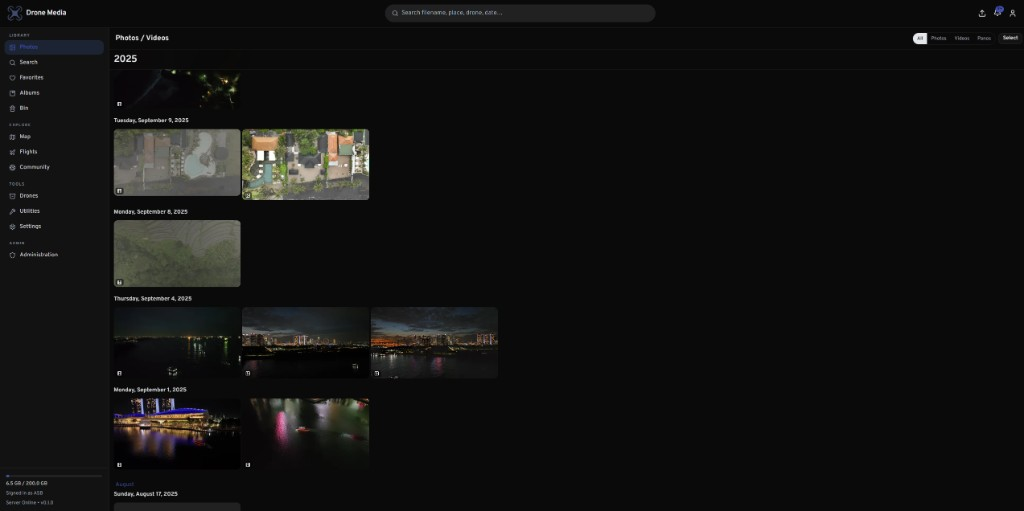
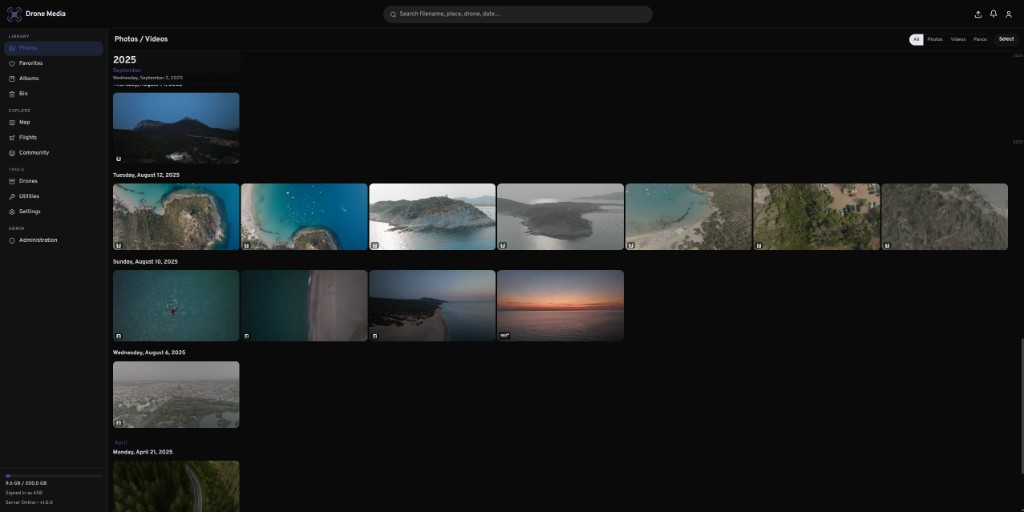
docs: refresh README screenshots for upload, pano, map, and flights
Update gallery images and feature blurbs for the upload dock, panoramas, map badges, and flight page.

diff --git a/README.md b/README.md
@@ -23,7 +23,7 @@ Drone Media is a multi-user web app for keeping aerial media organized at home. 
 
 ### Timeline
 
-Date-grouped photos and videos in the main library.
+Date-grouped library with type filters and media badges on each tile.
 
 ![Library timeline](docs/screenshots/timeline.png)
 
@@ -33,17 +33,35 @@ Watch clips with metadata, linked SRT/LRF, and the telemetry path on a map.
 
 ![Asset playback](docs/screenshots/playback.png)
 
+### Panorama
+
+Interactive 360° panoramas with a heading cue and look-direction cone on the location map.
+
+![Panorama viewer](docs/screenshots/panorama.png)
+
 ### Map
 
-Geotagged media on a world map, with clusters where shots overlap.
+Geotagged media with clusters and corner badges for photo, video, and panorama markers.
 
 ![Map view](docs/screenshots/map.png)
+
+### Flight
+
+Multi-clip flights with a bottom media strip, live path map, and altitude telemetry.
+
+![Flight detail](docs/screenshots/flight.png)
 
 ### Upload
 
 Import from an SD card or drone folder — linked basenames and sequences are grouped before you copy into the library.
 
 ![Upload and SD import](docs/screenshots/upload.png)
+
+### Upload progress
+
+A compact upload dock keeps transfers visible while you browse the rest of the library.
+
+![Upload dock](docs/screenshots/upload-dock.png)
 
 ### Processing
 
@@ -54,7 +72,10 @@ Live job status after import: checksum, thumbnails, metadata, flight path, and t
 ## At a glance
 
 - Chunked uploads with basename grouping (video + SRT + LRF, hyperlapse / panorama folders)
+- Background upload dock so you can keep browsing while transfers finish
 - Timeline, map, flights, albums, drones, favorites, and bin
+- Stitched panoramas with 360° viewing and compass heading when EXIF/DJI yaw is present
+- Map markers with media-type badges; asset mini-map shows a look-direction cone for photos/panos
 - HLS adaptive playback from cache; **Source** in the player only after a streaming preview exists (download always available)
 - Photo **Web** previews on cache; full originals for download
 - Community profiles and a shared public map
@@ -73,9 +94,11 @@ AGPL-3.0 — see [LICENSE](./LICENSE).
 - **Library** — timeline, map, flights, albums, drones, favorites, bin
 - **Playback** — HLS adaptive streaming (1080p / 1440p / Auto) from regenerable cache; **Source** plays the original from media storage
 - **Photos** — in-app **Web** preview from cache; **Source** / download use full originals
+- **Panoramas** — DJI-style stitch, 360° viewer, heading tape, and map look cone when yaw tags exist
+- **Flights** — grouped clips with shared path map, altitude graph, and per-clip media strip
 - **Community** — discover public profiles and a shared map (`/community`); open media on `/u/{username}`
 - **Admin** — users, invites, integrity, storage report, settings, backups, failed jobs; **Jobs** tab to pause/enable transcoding (and panorama stitch) globally, view all-users queues, and backfill when re-enabled
-- **Upload** — chunked resumable uploads with basename grouping (MP4 + SRT + LRF)
+- **Upload** — chunked resumable uploads with basename grouping (MP4 + SRT + LRF) and a persistent progress dock
 
 While transcoding is paused, Live Processing finishes after metadata (no Transcoding spam). Users see deferred items under **Utilities → Jobs** as “Waiting to transcode.” Videos without a streaming preview show a status message instead of playing Source in the player.
 
